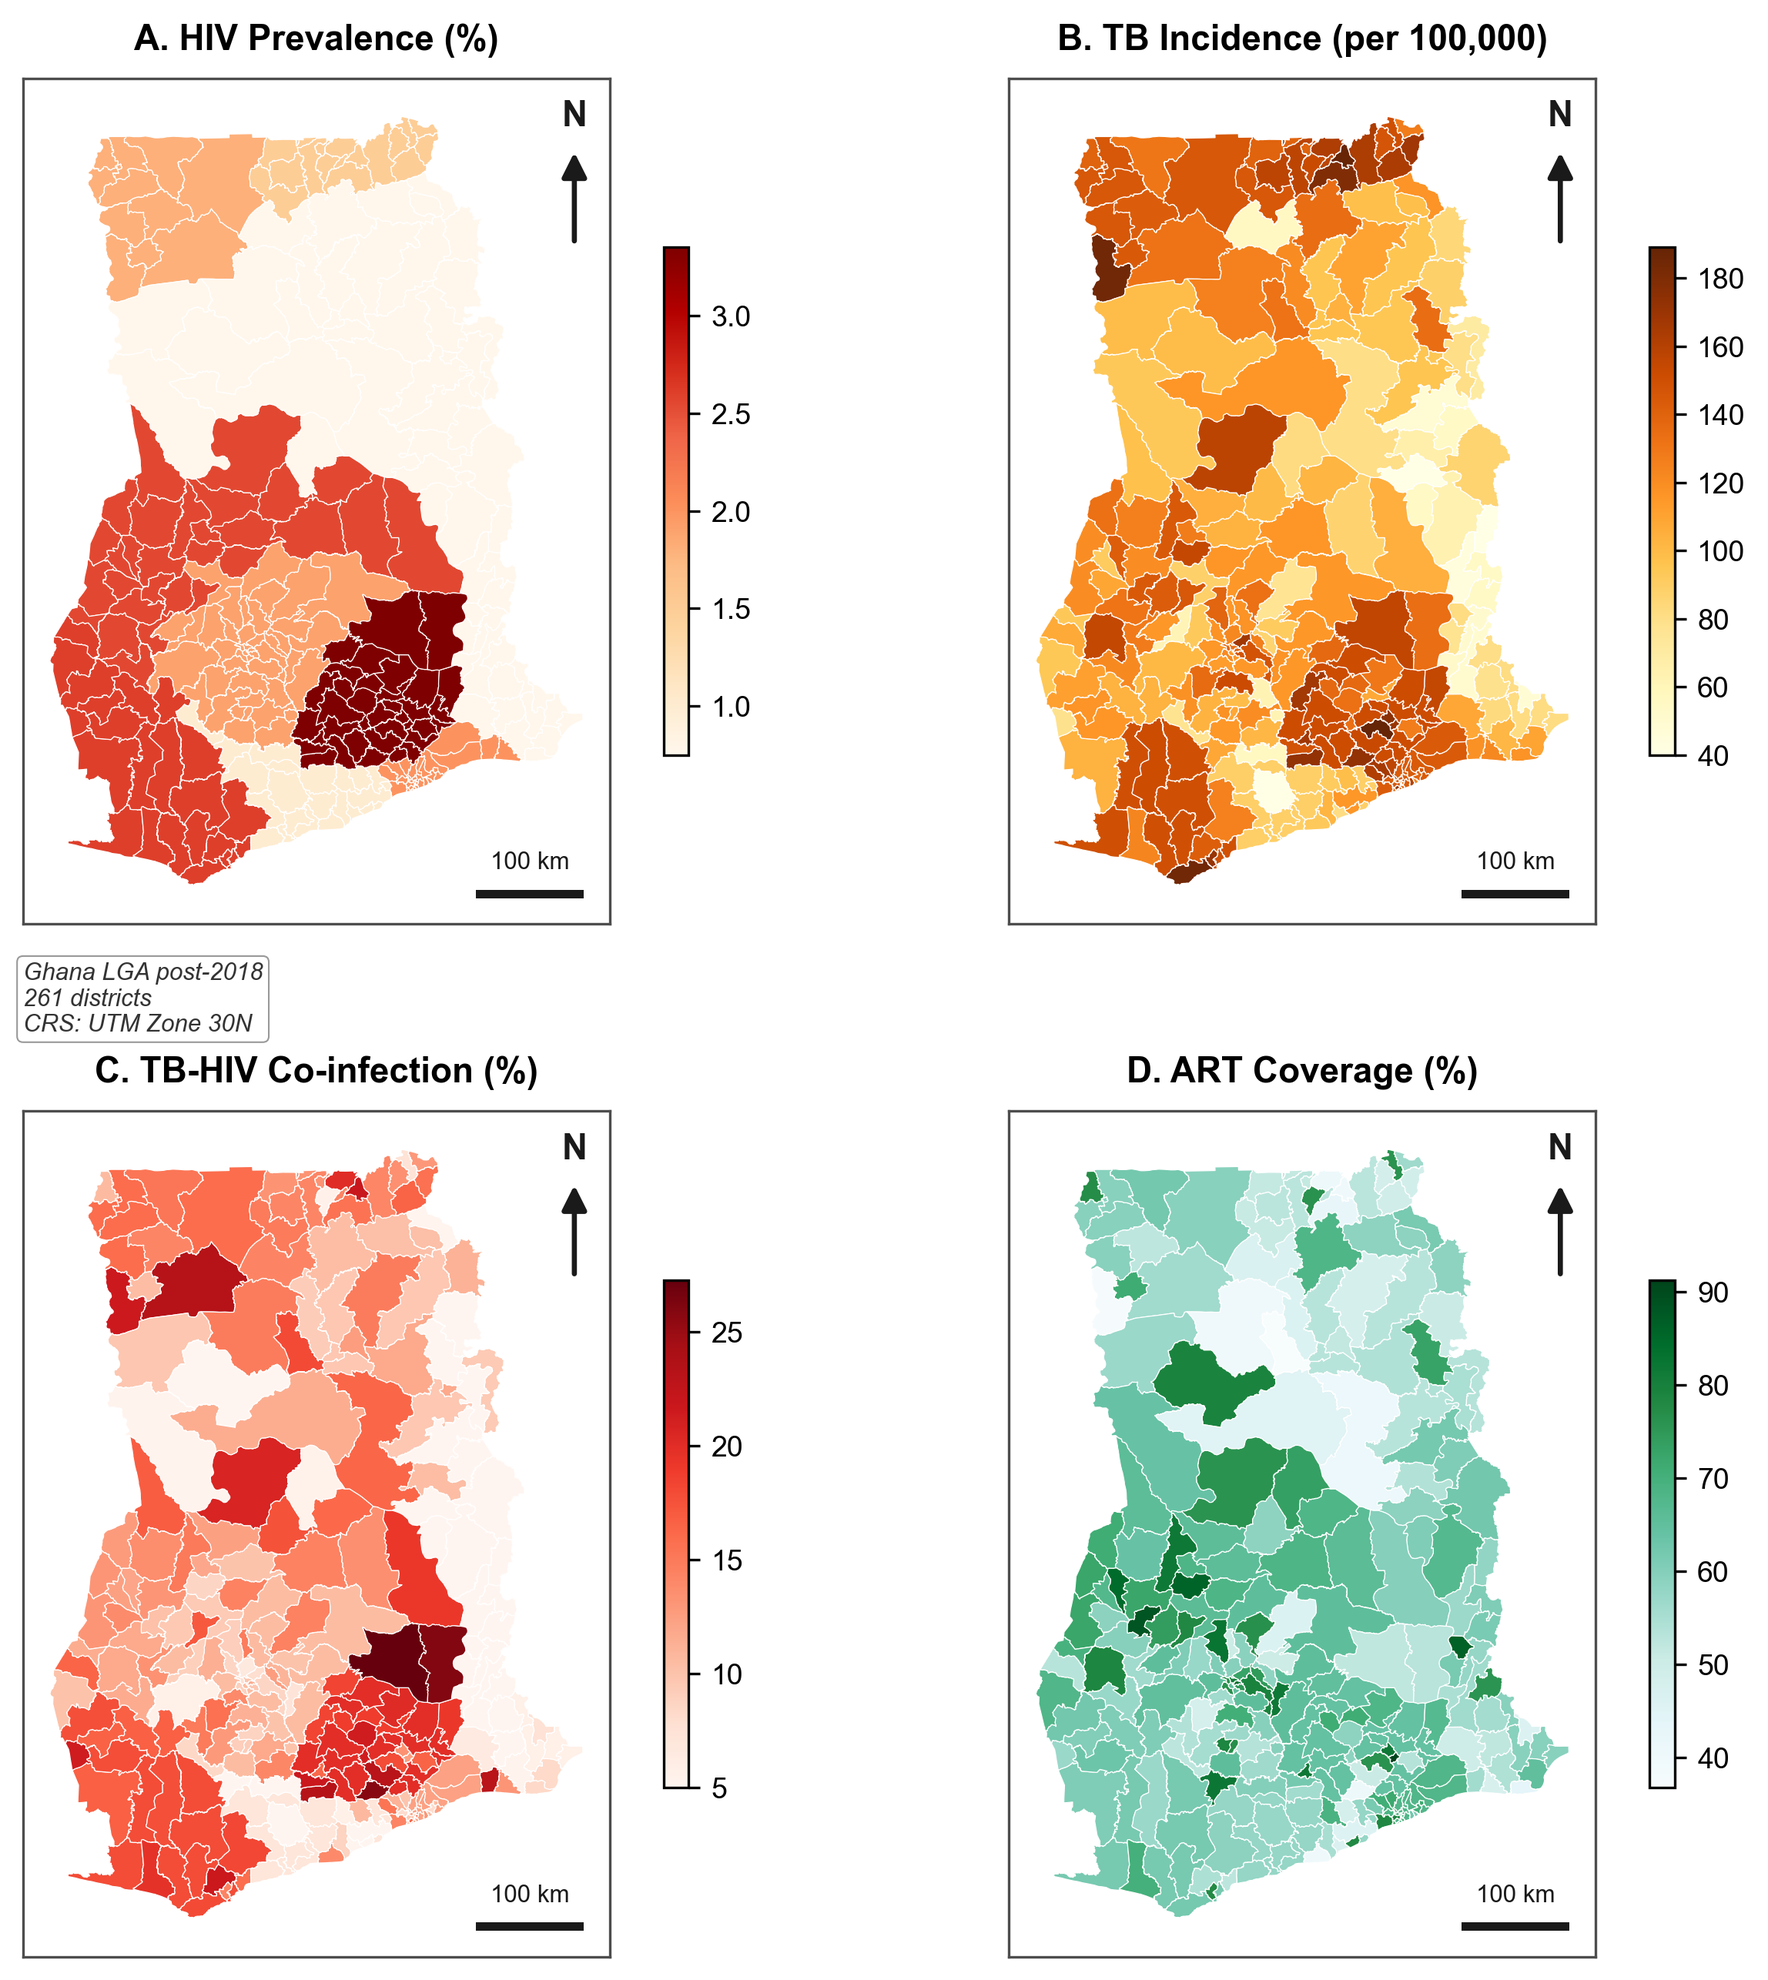
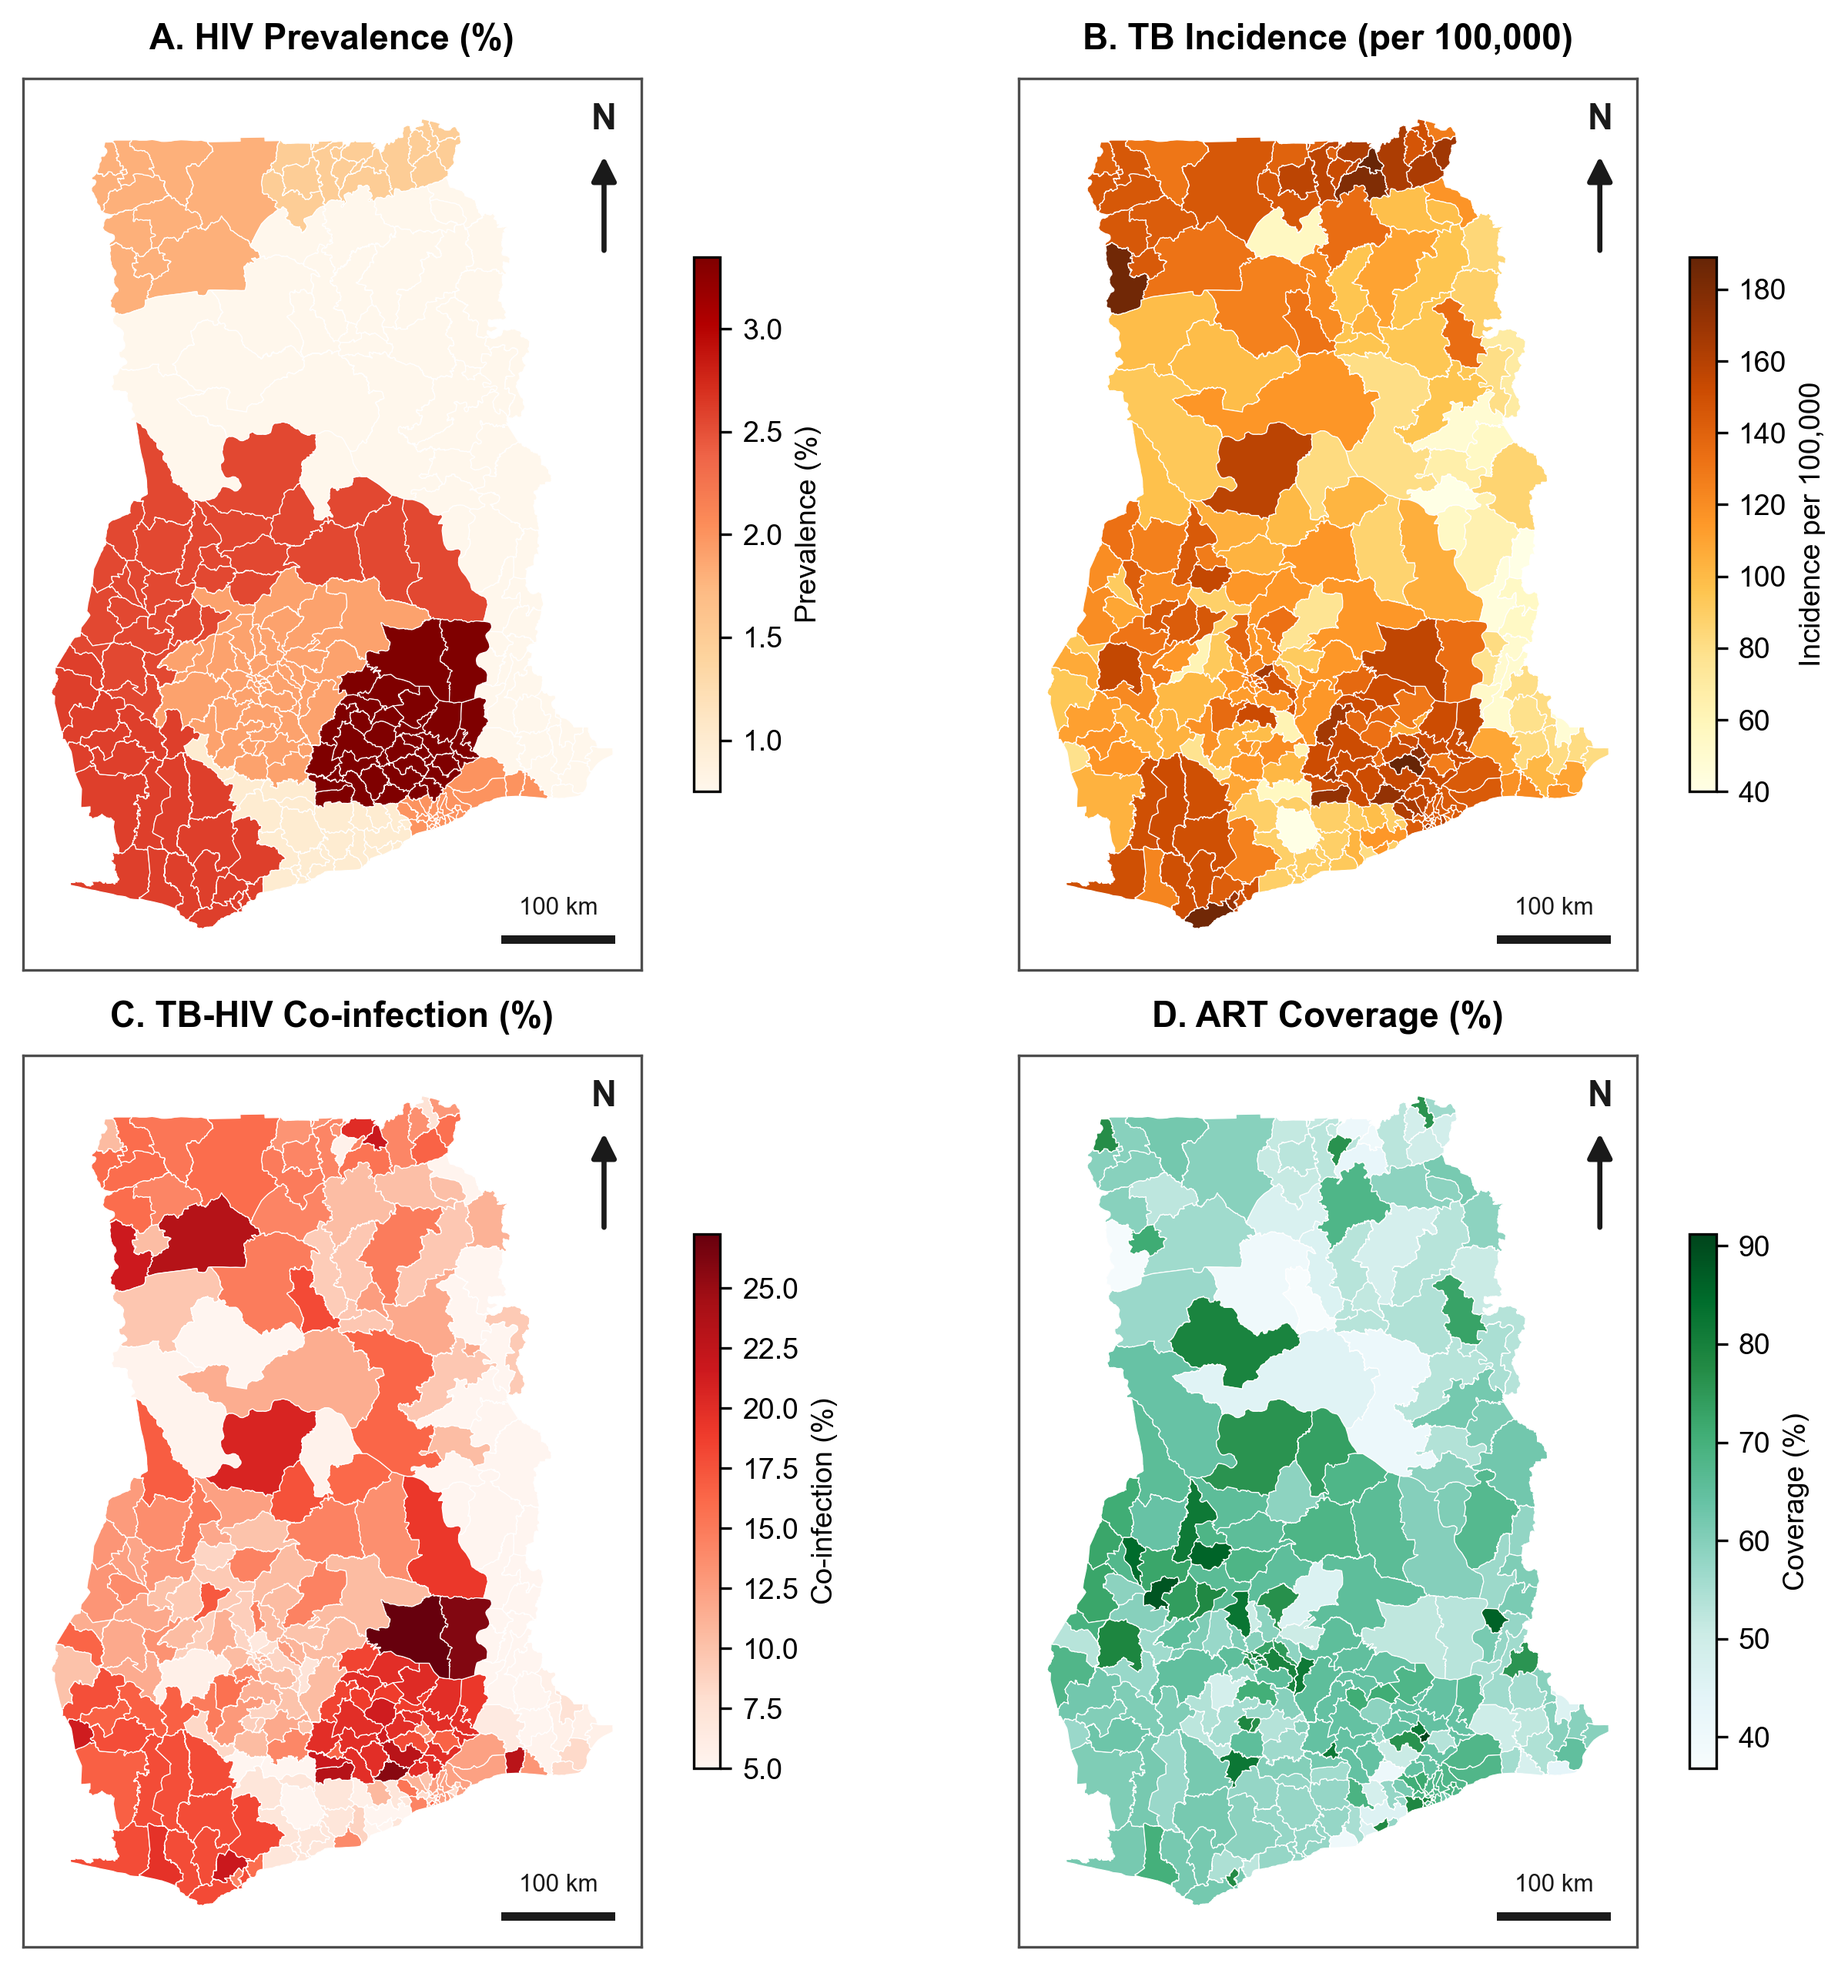
Polish final submission figures and captions

diff --git a/scripts/build_submission_package.py b/scripts/build_submission_package.py
@@ -82,7 +82,7 @@ def format_table(table) -> None:
                 paragraph.paragraph_format.line_spacing = 1.05
                 for run in paragraph.runs:
                     run.font.name = "Times New Roman"
-                    run.font.size = Pt(8.5)
+                    run.font.size = Pt(10 if row_idx == 0 else 9.5)
                     if row_idx == 0:
                         run.bold = True
 
@@ -180,21 +180,57 @@ def add_results_tables(doc: Document) -> None:
 
 def add_figures(doc: Document) -> None:
     figures = [
-        ("Figure 1. Disease burden choropleths.", "Figure_1_disease_burden.png"),
-        ("Figure 2. Ranked global Moran's I summary for tested indicators.", "Figure_3_morans_I.png"),
-        ("Figure 3. LISA, bivariate LISA and Getis-Ord Gi* clusters.", "Figure_2_spatial_clusters.png"),
-        ("Figure 4. GWR local coefficient maps.", "Figure_8_gwr_coefficients.png"),
-        ("Figure 5. Model validation comparison: random 10-fold versus leave-one-region-out spatial CV.", "Figure_4_ml_performance.png"),
-        ("Figure 6. SHAP feature importance.", "Figure_5_shap_importance.png"),
-        ("Figure 6b. SHAP beeswarm.", "Figure_5b_shap_beeswarm.png"),
-        ("Figure 7. Stacked-ensemble risk map.", "Figure_6_ml_risk_map.png"),
-        ("Figure 8. Selected determinant correlation matrix.", "Figure_7_correlation.png"),
+        (
+            "Figure 1. District burden maps. Choropleths show HIV prevalence, TB incidence, TB-HIV co-infection and ART coverage across 261 Ghanaian districts; darker shading indicates higher values within each panel.",
+            "Figure_1_disease_burden.png",
+            "Source: Author analysis of Ghana Statistical Service district geometry, WHO/GHO indicators, DHS-derived inputs and outputs/data/ghana_261_final_results.geojson.",
+        ),
+        (
+            "Figure 2. Global spatial autocorrelation. Ranked Moran's I estimates for eleven district-level indicators using KNN-5 spatial weights and 999 permutations; labels report Moran's I and permutation p-values.",
+            "Figure_3_morans_I.png",
+            "Source: Author analysis of outputs/tables/global_morans_I.csv.",
+        ),
+        (
+            "Figure 3. Local spatial clusters. LISA, bivariate LISA (HIV prevalence x TB incidence), Getis-Ord Gi* hotspots and GWR local R^2 are mapped across 261 districts; cluster legends report district counts where applicable.",
+            "Figure_2_spatial_clusters.png",
+            "Source: Author analysis of outputs/data/ghana_261_final_results.geojson and outputs/tables/bivariate_morans_I.csv.",
+        ),
+        (
+            "Figure 4. Spatially varying GWR coefficients. Local GWR coefficient surfaces are shown for the leading predictors across 261 districts; colour scales are panel-specific and indicate lower-to-higher local coefficient values.",
+            "Figure_8_gwr_coefficients.png",
+            "Source: Author analysis of outputs/tables/gwr_summary.csv and outputs/data/ghana_261_final_results.geojson.",
+        ),
+        (
+            "Figure 5. Random versus spatial validation. Mean AUC-ROC is shown for random 10-fold cross-validation and leave-one-region-out spatial cross-validation; orange whiskers show spatial-CV +/- SD.",
+            "Figure_4_ml_performance.png",
+            "Source: Author analysis of outputs/tables/ml_10fold_cv_results.csv and outputs/tables/ml_spatial_cv_results.csv.",
+        ),
+        (
+            "Figure 6. SHAP feature importance. Mean absolute SHAP values are shown for the LightGBM hotspot model; larger values indicate greater average contribution to predicted hotspot status.",
+            "Figure_5_shap_importance.png",
+            "Source: Author analysis of outputs/tables/shap_feature_importance.csv and saved LightGBM SHAP arrays.",
+        ),
+        (
+            "Figure 6b. SHAP value distribution. The beeswarm plot shows predictor-specific SHAP distributions for the LightGBM hotspot model, with points representing held-out district observations.",
+            "Figure_5b_shap_beeswarm.png",
+            "Source: Author analysis of saved LightGBM SHAP arrays in outputs/models/.",
+        ),
+        (
+            "Figure 7. Stacked-ensemble risk map. District-level ensemble hotspot probability is mapped alongside the twenty highest-risk districts; higher scores indicate greater predicted probability of High-High co-infection cluster membership.",
+            "Figure_6_ml_risk_map.png",
+            "Source: Author analysis of outputs/models/predictions.json and outputs/data/ghana_261_final_results.geojson.",
+        ),
+        (
+            "Figure 8. Selected determinant correlations. Pearson correlation coefficients are shown for twelve HIV, TB, socioeconomic and health-system indicators across 261 districts; every cell reports the corresponding r value.",
+            "Figure_7_correlation.png",
+            "Source: Author analysis of outputs/data/ghana_261_final_results.geojson.",
+        ),
     ]
-    for caption, file_name in figures:
-        doc.add_paragraph(caption, style="Caption")
+    for caption, file_name, source in figures:
         path = ROOT / "outputs" / "figures" / file_name
         if path.exists():
             doc.add_picture(str(path), width=Inches(6.4))
+        doc.add_paragraph(f"{caption} {source}", style="Caption")
         doc.add_paragraph()
 
 
@@ -208,11 +244,19 @@ def md_to_docx(text: str) -> None:
     styles["Normal"].font.size = Pt(12)
     styles["Normal"].paragraph_format.line_spacing_rule = WD_LINE_SPACING.DOUBLE
     styles["Normal"].paragraph_format.space_after = Pt(0)
+    styles["Caption"].font.name = "Times New Roman"
+    styles["Caption"].font.size = Pt(10)
+    styles["Caption"].font.italic = True
+    styles["Caption"].paragraph_format.line_spacing = 1.0
+    styles["Caption"].paragraph_format.space_after = Pt(4)
 
     in_table_placeholder = False
+    in_figure_placeholder = False
     for raw in text.splitlines():
         line = raw.strip()
         if not line or line == "---":
+            continue
+        if in_figure_placeholder:
             continue
         if line.startswith("## Tables"):
             doc.add_heading("Tables", level=1)
@@ -223,6 +267,7 @@ def md_to_docx(text: str) -> None:
             doc.add_heading("Figures", level=1)
             add_figures(doc)
             in_table_placeholder = False
+            in_figure_placeholder = True
             continue
         if in_table_placeholder:
             continue

diff --git a/analysis/generate_figures.py b/analysis/generate_figures.py
@@ -142,17 +142,17 @@ print(f'Loaded: {len(gdf)} districts')
 print('[1/8] Fig 1: Disease burden choropleths...')
 fig, axes = plt.subplots(2, 2, figsize=(9.2, 9.0))
 panels = [
- ('HIV_Prev_Total_pct', 'A. HIV Prevalence (%)', 'OrRd'),
- ('TB_Incidence_per100k', 'B. TB Incidence (per 100,000)', 'YlOrBr'),
- ('TB_HIV_CoInfection_pct', 'C. TB-HIV Co-infection (%)', 'Reds'),
- ('ART_Coverage_pct', 'D. ART Coverage (%)', 'BuGn'),
+ ('HIV_Prev_Total_pct', 'A. HIV Prevalence (%)', 'OrRd', 'Prevalence (%)'),
+ ('TB_Incidence_per100k', 'B. TB Incidence (per 100,000)', 'YlOrBr', 'Incidence per 100,000'),
+ ('TB_HIV_CoInfection_pct', 'C. TB-HIV Co-infection (%)', 'Reds', 'Co-infection (%)'),
+ ('ART_Coverage_pct', 'D. ART Coverage (%)', 'BuGn', 'Coverage (%)'),
 ]
-for i, (ax, (var, title, cmap)) in enumerate(zip(axes.flat, panels)):
+for i, (ax, (var, title, cmap, legend_label)) in enumerate(zip(axes.flat, panels)):
  gdf.plot(column=var, cmap=cmap, legend=True, ax=ax, edgecolor='white',
- linewidth=0.3, legend_kwds={'shrink': 0.6})
+ linewidth=0.3, legend_kwds={'shrink': 0.6, 'label': legend_label})
  ax.set_title(title, **TITLE_KW)
- add_map_essentials(ax, source_note=MAP_SOURCE_NOTE if i == 0 else None)
-plt.tight_layout(rect=[0, 0.04, 1, 1])
+ add_map_essentials(ax, source_note=None)
+plt.tight_layout(rect=[0, 0.045, 1, 1])
 # Caption intentionally not baked into the image: the manuscript build script
 # (build_manuscript.js) supplies the numbered caption as editable docx text,
 # per journal convention. Baking a second, differently-worded caption into the
@@ -223,7 +223,7 @@ add_map_essentials(ax)
 ax = axes[1, 1]
 if 'GWR_local_R2' in gdf.columns:
  gdf.plot(column='GWR_local_R2', cmap='viridis', legend=True, ax=ax,
- edgecolor='white', linewidth=0.2, legend_kwds={'shrink': 0.6})
+ edgecolor='white', linewidth=0.2, legend_kwds={'shrink': 0.6, 'label': 'Local R^2'})
  ax.set_title('D. GWR local R^2', **TITLE_KW)
  add_map_essentials(ax)
 else:
@@ -386,7 +386,7 @@ gdf.plot(column='Ensemble_Risk_Score', cmap='RdYlGn_r', legend=True, ax=ax,
  edgecolor='white', linewidth=0.3,
  legend_kwds={'label': 'Hotspot Probability', 'shrink': 0.6})
 ax.set_title('A. Ensemble-Predicted Hotspot Risk', **TITLE_KW)
-add_map_essentials(ax, source_note=MAP_SOURCE_NOTE)
+add_map_essentials(ax, source_note=None)
 
 ax = axes[1]
 # Top 20 high-risk districts. Scores are tightly clustered, so a lollipop plot
@@ -470,12 +470,11 @@ if len(gwr_vars) >= 4:
   label_pretty = LABEL_MAP.get(label, label)
   gdf.plot(column=var, cmap='RdBu_r', legend=True, ax=ax,
   edgecolor='white', linewidth=0.2,
-  legend_kwds={'shrink': 0.50, 'fraction': 0.035, 'pad': 0.02})
+  legend_kwds={'shrink': 0.50, 'fraction': 0.035, 'pad': 0.02,
+   'label': 'Local coefficient'})
   ax.set_title(f'{chr(65+i)}. GWR coefficient: {label_pretty}', fontsize=9.1,
    fontweight='bold', color='#000000', pad=7)
   add_map_essentials(ax, source_note=None)
- fig.text(0.025, 0.018, 'Ghana LGA post-2018; 261 districts; CRS: UTM Zone 30N',
-  fontsize=6.7, style='italic', color='#444444')
  plt.tight_layout(rect=[0, 0.045, 1, 1], h_pad=1.7, w_pad=1.2)
  save_transparent_figure(fig, 'Figure_8_gwr_coefficients.png')
  plt.close()
